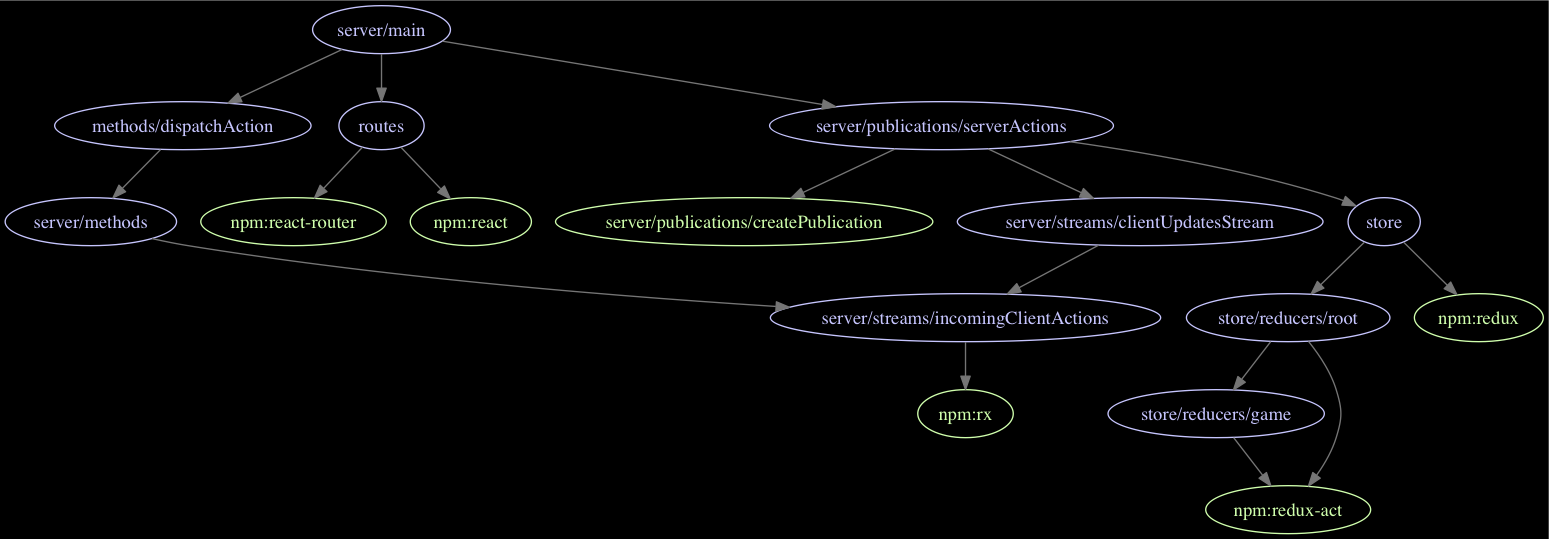
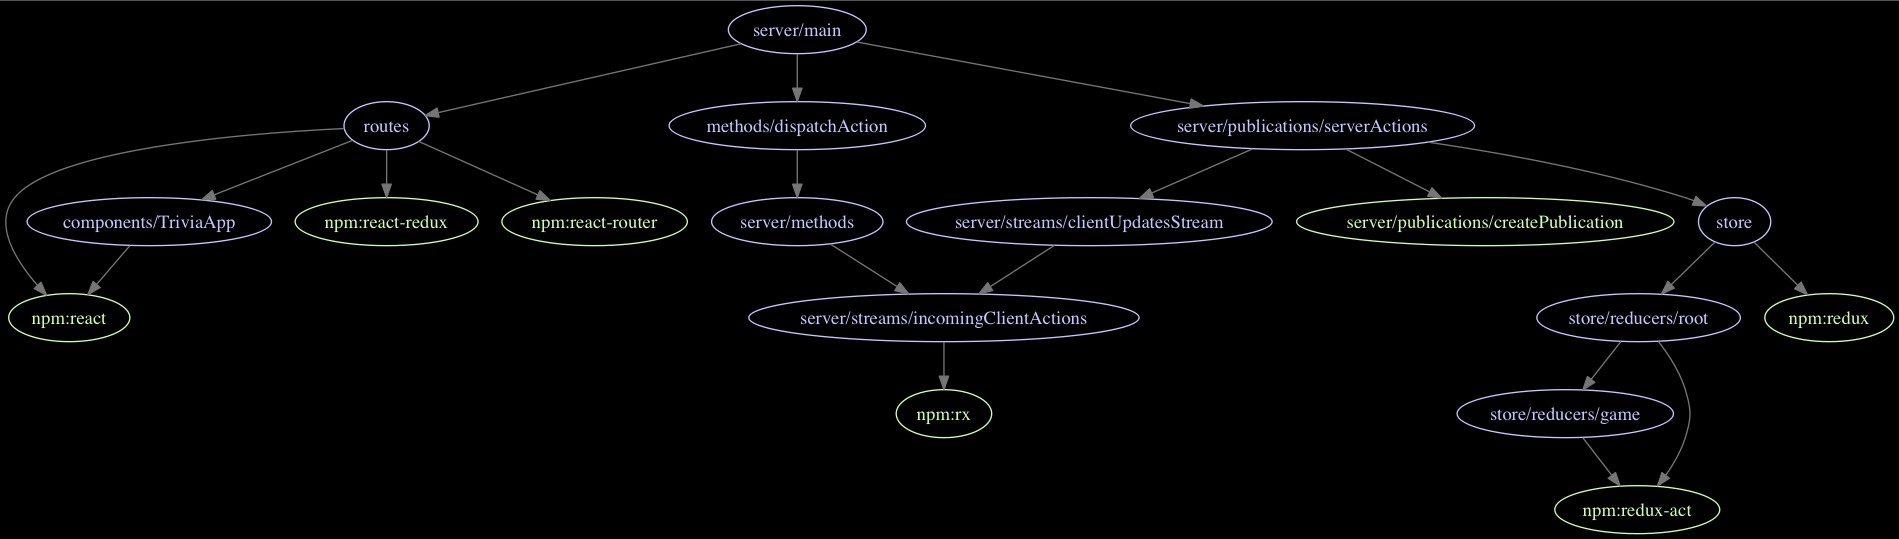
Working streams

diff --git a/imports/server/publications/serverActions.js b/imports/server/publications/serverActions.js
@@ -6,24 +6,18 @@ import clientUpdatesStream, { sanitizePayload } from '../streams/clientUpdatesSt
 // Note - Mergebox will not publish events that are dupes of previous ones, thus the
 // inclusion of always-unique ObjectIDs on messages
 createPublication('serverActions', ({ connection, added, error, ready, onStop }) => {
-  console.log(`got subscriber ${connection.id}, and sending them our state`)
+  console.log(`got subscriber ${connection.id}`)
   added('serverActions', new Mongo.ObjectID(),
     {
       type: 'RESET',
       payload: sanitizePayload(store.getState()).toJS()
     })
 
-  let listener = [
-    action => {
-      console.log(`sending action upstream to ${connection.id}`, action.toJS())
-      added('serverActions', new Mongo.ObjectID(), action.toJS())
-    },
-    () => error,
-    () => console.log('stream has ended')
-  ]
-
   // each subscriber becomes a listener
-  let subscription = clientUpdatesStream.subscribe(...listener)
+  let subscription = clientUpdatesStream.subscribe((action) => {
+    console.log(`sending action upstream to ${connection.id}`, action.toJS())
+    added('serverActions', new Mongo.ObjectID(), action.toJS())
+  })
 
   onStop(() => {
     console.log(`${connection.id} has said bye-bye`)

diff --git a/imports/store/reducers/game.js b/imports/store/reducers/game.js
@@ -1,8 +1,9 @@
 import { createAction } from 'redux-act'
 
 export const initialState = {
-  name: 'Meteor Redux Trivia',
+  title: 'Meteor Redux Trivia',
   players: [],
+  status: 'awaiting players',
   questions: [
     {
       prompt: 'Meteor had which earlier name?',
@@ -16,5 +17,13 @@ export const initialState = {
     }
   ]
 }
-export const actionReducers = {}
-export const actions = {}
+
+let begin = createAction('GAME_BEGIN')
+
+export const actionReducers = {
+  [begin]: (state) => state.set('status', 'game on!')
+}
+
+export const actions = {
+  begin
+}

diff --git a/imports/server/methods.js b/imports/server/methods.js
@@ -1,7 +1,7 @@
 import { fromJS } from 'immutable'
-import incomingClientActions from './streams/incomingClientActions'
+import { pushNext } from './streams/incomingClientActions'
 
 export const handleDispatch = (action) => {
   console.log(`Recieved ${action.type} from client, putting on stream..`)
-  incomingClientActions.onNext(fromJS(action))
+  pushNext(fromJS(action))
 }

diff --git a/imports/routes.js b/imports/routes.js
@@ -1,10 +1,9 @@
 import React from 'react'
 import { Route } from 'react-router'
 import { ReactRouterSSR } from 'meteor/reactrouter:react-router-ssr'
+import { connect, Provider } from 'react-redux'
 
-const TriviaApp = () => (
-  <h1>Trivia !</h1>
-)
+import { TriviaApp } from './components/TriviaApp'
 
 // eslint-disable-next-line new-cap
 ReactRouterSSR.Run(

diff --git a/imports/server/streams/clientUpdatesStream.js b/imports/server/streams/clientUpdatesStream.js
@@ -2,7 +2,7 @@ import incomingClientActions from './incomingClientActions'
 
 export const sanitizePayload = (payload) => {
   return payload.updateIn(['game', 'questions'],
-    qs => qs.map(q => q.delete('correctAnswer')))
+    qs => qs && qs.map(q => q.delete('correctAnswer')))
 }
 
 export default incomingClientActions.map(a => {

diff --git a/imports/store/reducers/root.js b/imports/store/reducers/root.js
@@ -6,7 +6,7 @@ import * as Game from './game'
 
 let initialState = fromJS(Meteor.isClient ? {} : Game.initialState)
 let stateReducer = combineReducers({
-  game: createReducer({}, initialState)
+  game: createReducer(Game.actionReducers, initialState)
 })
 
 // eslint-disable-next-line import/no-mutable-exports

diff --git a/imports/server/streams/incomingClientActions.js b/imports/server/streams/incomingClientActions.js
@@ -1,3 +1,6 @@
 import Rx from 'rx'
 
-export default new Rx.Subject()
+let subject = new Rx.Subject()
+
+export const pushNext = subject.onNext.bind(subject)
+export default subject.asObservable()

diff --git a/imports/components/TriviaApp.js b/imports/components/TriviaApp.js
@@ -1,0 +1,5 @@
+import React from 'react'
+
+export const TriviaApp = () => (
+  <h1>Trivia !</h1>
+)
